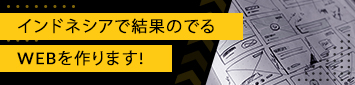
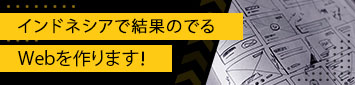
update service page content

diff --git a/css/style.css b/css/style.css
@@ -571,7 +571,7 @@ section.maintop {
 .btn-contact-us-black {
     background: #000;
     border-radius: 5px;
-    color: #fff!important;
+    color: #fff !important;
     font-size: 24px;
     padding: 10px 60px;
     margin-top: 30px
@@ -595,6 +595,23 @@ section.maintop {
 }
 .banner-container{
     margin-top: 15px;
+}
+.casestudy-container{
+    padding-top:30px;
+}
+.casestudy-item {
+    display: block;
+    padding: 10px 0;
+    border: 1px solid #333;
+    font-size: 18px;
+    text-align: center; 
+    color:#ffca13; 
+    text-transform: uppercase;
+    margin-bottom:15px;
+}
+.casestudy-item:hover {
+    background: #333;
+    color: #fff;
 }
 footer {
     z-index:5;

diff --git a/jp/services.php b/jp/services.php
@@ -24,7 +24,7 @@
 	<link href="/fonts/font-awesome/css/font-awesome.min.css" rel="stylesheet">
     
     </head>
-	<body>
+	<body  class="jp-page">
 		<div class="wrapper">
 		
 			<!-- NAVIGATION -->
@@ -118,15 +118,15 @@
 				<div id="contents">
 					<div class="title"><b>Our</b><span class="yellow">Services</span></div>
 					<div class="form-container">
-						LOGIQUEはインドネシア国内でウェブサイト(ホームページ)やウェブシステム、モバイルアプリケーションの開発、SNS活用などお客様がIT・インターネットを活用するためのご支援をしています。WEBやWEBシステムの制作・開発、運用からインターネットマーケティングやSEO対策などまで、Web、インターネットに関するサービスを幅広く提供しております。 プログラマー、デザイナー、コンテンツライターを自社内に抱えており、フレキシブルで安価な価格でのサービス提供が可能です。インドネシアにて長い経験と多くの実績を持っておりますので安心してご依頼ください。
+						LOGIQUEはインドネシア国内でウェブサイト(ホームページ)やウェブシステム、モバイルアプリケーションの開発、デジタルマーケティングの実行など、お客様がIT・インターネットを活用するためのご支援をしています。WebやWebシステムの制作・開発、運用からWebマーケティングやSEO対策などまで、Web、インターネットに関するサービスを幅広く提供しております。 プログラマー、デザイナー、コンテンツライターを自社内に抱えており、フレキシブルで安価な価格でのサービス提供が可能です。インドネシアにて長い経験と多くの実績を持っておりますので安心してご依頼ください。
 					</div>
 					<img class="img-responsive" src="../img/layanan-img.jpg" alt="Layanan"/>
 					<div class="feel-free row-center-sm" style="font-size: 18px;">
 						<div class="col-sm-8">
-							インドネシアでのIT・WEB活用関連について、お気軽にお問い合わせください。御社製品・サービスのインドネシアでの販売パートナー・代理店をお探しの方もお気軽にご連絡ください。
+							インドネシアでのIT・WEB活用等に関する課題についてお気軽にご相談ください
 						</div>
 						<div class="col-sm-4">
-							<a href="contact.php" class="btn btn-contact-service" onclick="ga('send', 'event', 'Button-Hubungi-Logique-Layanan-1', 'Action-Click', 'Button-Hubungi-Logique-Layanan-1-Label');">お問い合わせ</a>
+							<a href="contact.php" class="btn btn-contact-service" onclick="ga('send', 'event', 'Button-Hubungi-Logique-Layanan-1', 'Action-Click', 'Button-Hubungi-Logique-Layanan-1-Label');">ご相談はこちらから</a>
 						</div>
 						<div class="clearfix"></div>
 					</div>
@@ -148,7 +148,7 @@
 							<div class="panel-heading">
 								<a data-toggle="collapse" data-parent="#vacancy" href="#website-creation" class="collapsed">
 									<h2 class="panel-title">
-										<img src="../img/html.png" alt="Website Creation"/> WEB・ホームページ制作運用
+										<img src="../img/html.png" alt="Website Creation"/> Web・ホームページ制作運用
 									</h2>
 								</a>
 							</div>
@@ -156,8 +156,8 @@
 							  <div class="panel-body">
 								<ol class="fa-ul">
 									<li>
-										<i class="fa-li fa fa-caret-right"></i> <b>コーポレートWEB制作</b><br/>
-										会社の信頼感・ブランド価値を伝えるコーポレートWEB、ブランドWEBを制作します。多言語での制作やコンテンツ制作や写真・動画撮影も含めたホームページ制作などご要望に柔軟に応じます。ドメインやWEBサーバーの手配、SSL購入もご支援いたします。企画から運用まで纏めてお任せください。スムーズに進められれば1ヶ月程度で公開可能です。様々な業種のお客様のコーポレートWEBを制作しました。
+										<i class="fa-li fa fa-caret-right"></i> <b>コーポレート・ブランドWeb制作</b><br/>
+										会社の信頼感・ブランド価値を伝えるコーポレートWeb、ブランドWebを制作します。多言語での制作やコンテンツ制作や写真・動画撮影も含めたホームページ制作などご要望に柔軟に応じます。ドメインやWebサーバーの手配、SSL購入もご支援いたします。企画から運用まで纏めてお任せください。スムーズに進められれば1ヶ月程度で公開可能です。コンバージョンのでる、価値の高いWebを作ります。
 										<br/><br/>
 										<div class="row text-center service-portfolio">
 											<div class="col-sm-5 col-sm-offset-1">
@@ -167,8 +167,8 @@
 												</a>
 											</div>
 											<div class="col-sm-5">
-												<a href="http://www.moresco.co.id/" target="_blank">
-												<img src="/img/portfolio/moresco.png" class="img-responsive center-block">
+												<a href="http://sentraya.id/" target="_blank">
+												<img src="/img/portfolio/sentraya.png" class="img-responsive center-block">
 												MORESCO<br>
 												</a>
 											</div>
@@ -180,11 +180,11 @@
 									</li>
 									<li>
 										<i class="fa-li fa fa-caret-right"></i> <b>サービスWEB構築</b><br/>
-										中古車売買マッチングサイト、ポイント管理サイト、人材マッチングサイト、E-Commerce、クローズドコミュニティWEBなど、会員管理CRM WEBなど、インターネットを活用した新ビジネス/新サービスを開始される際、ビジネス企画からデザイン制作、システム・サイト構築、運用までトータルでご支援可能です。適切なPhase分けや柔軟なスコープ調整などでサービスが軌道に乗るのをご支援します。
+										中古車売買マーケットプレイス、ポイント管理サイト、人材マッチングサイト、E-Commerce、クローズドコミュニティ、会員管理CRMウェブなど、インターネットを活用した新ビジネス/新サービスを開始される際、ビジネス企画からデザイン制作、システム・サイト構築、運用、デジタルマーケティングの実行までトータルでご支援可能です。適切なPhase分けや柔軟なスコープ調整などでサービスが軌道に乗るまでご支援します。
 									</li>
 									<li>
 										<i class="fa-li fa fa-caret-right"></i> <b>採用サイト制作</b><br/>
-										ジャカルタにて、ミスマッチングとならない良い人材の採用の難易度は非常に高くなっています。自社で採用サイトをもち、これを活用した採用活動をすることが一つの解決策となります。会社について、人について、求めている人材について、インタビュー動画なども交えて伝えることで効果的な採用が可能となります。求人ページ・サイトと採用管理システムを連動させる案件の実績も豊富にもっています。
+										ジャカルタにて、ミスマッチングとならない良い人材の採用の難易度は非常に高くなっています。自社で採用サイトをもち、これを受け皿としてデジタルを活用した採用活動をすることが一つの解決策となります。会社について、人について、求めている人材について、インタビュー動画なども交えて伝えることで効果的な採用が可能となります。求人ページ・サイトと採用管理システムを連動させる案件の実績も豊富にもっています。
 										<br/>
 										<a target="_blank" href="/jp/services/pembuatan-website-karir-perusahaan/" class="btn btn-service-link">もっと見る</a>
 										<br/><br/>
@@ -196,16 +196,16 @@
 												</a>
 											</div>
 											<div class="col-sm-5">
-												<a href="https://www.dipostar.com/id/tentang-hrd.htm" target="_blank">
-												<img src="/img/portfolio/dsf.png" class="img-responsive center-block">
-												DIPO STAR FINANCE<br><br>
+												<a href="https://career.sinarmasland.com/" target="_blank">
+												<img src="/img/portfolio/sinarmas.jpg" class="img-responsive center-block">
+												SINAR MAS LAND<br><br>
 												</a>
 											</div>
 										</div>
 									</li>
 									<li>
-										<i class="fa-li fa fa-caret-right"></i> <b>モバイルWEB制作・レスポンシブWEB制作</b><br/>
-										スマートフォンやタブレットなどマルチデバイス対応WEBとしてスタンダードになった技術ですが、LOGIQUEでは多くのWEBをレスポンシブWEBとして制作しています。Bootstrapだけでなく他のフレームワークで作られたレスポンシブWEBもメンテ可能です。スマートフォンからの閲覧が多いインドネシアならではの制作をご提案します。
+										<i class="fa-li fa fa-caret-right"></i> <b>モバイルWeb制作・レスポンシブWeb制作</b><br/>
+										スマートフォンやタブレットなどマルチデバイス対応WEBとして既にスタンダードになった技術ですが、LOGIQUEでは原則レスポンシブWebとして制作しています。Bootstrapだけでなく他のフレームワークで作られたレスポンシブWebもメンテナンス可能です。モバイル端末からの閲覧が多いインドネシアならではの制作をご提案します。
 									</li>
 									<li>
 										<i class="fa-li fa fa-caret-right"></i> <b>LP / キャンペーンWEB制作</b><br/>
@@ -223,14 +223,14 @@
 							<div class="panel-heading">
 							  <a data-toggle="collapse" data-parent="#vacancy" href="#web-system" class="collapsed">
 								<h2 class="panel-title">
-									<img src="../img/web-system.png" alt="Website Creation"/>ITシステム開発・運用
+									<img src="../img/web-system.png" alt="Website Creation"/>IT・Webシステム開発・運用
 								</h2>
 							  </a>
 							</div>
 							<div id="web-system" class="panel-collapse collapse">
 							  <div class="panel-body">
 							  	<p>
-							  		最先端の技術を取り入れたハイクオリティなシステム開発を、柔軟にリーズナブルなコストで責任をもって完遂します。PHPフレームワークを使った開発を得意としています。Laravel, Symfony, CakePHPなどでの開発は豊富にあります。またAngularJS, Bootstrapなどと併せて開発することで迅速でメンテナンス性の高いシステム開発をしています。
+							  		最先端の技術でハイクオリティなシステム開発を、柔軟にリーズナブルなコストで責任をもって完遂します。PHPフレームワークを使った開発を得意としています。Laravel, Symfony,  CakePHPなどでの開発は豊富にあります。またReact.js, Node.js, Angularなどでの開発が増えています。メンテナンス性の高いシステム開発アジャイル型で行っています。
 							  	</p>
 							  	<br/>
 								<ol class="fa-ul">
@@ -244,7 +244,7 @@
 									</li>
 									<li>
 										<i class="fa-li fa fa-caret-right"></i> <b>E-Commerce </b><br/>
-										マーケットプレイスやマルチレベルマーケティングに対応したE-Commerceなど複雑なE-Commerceサイトの構築も可能です。 決済や送料計算などインドネシアのルールに則ったシステム構築をします、様々なインドネシアのPayment Gatewayとの連携システムの構築経験も豊富です。 Magento、EC-CUBEなどのフレームワークを利用することもECプラットフォームへの出店支援も可能です。
+										マーケットプレイスやマルチレベルマーケティングに対応したE-Commerceなど複雑なE-Commerceサイトの構築も可能です。 決済や送料計算などインドネシアのルールに則ったシステム構築をします、様々なインドネシアのPayment Gatewayとの連携システムの構築経験も豊富です。 Magentoなどのフレームワークを利用することもスクラッチ開発することも可能です。
 									</li>
 									<li>
 										<i class="fa-li fa fa-caret-right"></i> <b>キャンペーン管理/コンテスト応募管理システム</b><br/>
@@ -255,6 +255,7 @@
 										インドネシアでの採用活動は大変です。質の低いレジュメが大量に送られてきてスクリーニングが大変だったり、インタビューをセットしてもNo showだったりと採用工数は大きくなってしまいがちです。当社が開発販売しているSugoi-Saiyoを使えば、各応募者向けにマイページを提供し、採用担当者はスコアに基づいた自動書類選考やWhatsApp連動のオンラインインタビューができるなど、効率的な採用ができます。
 									</li>
 								</ol>
+								<center><a href="/jp/product/sugoi-saiyo.php" style="display: block"><img src="../img/sugoi-banner.jpg" class="img-responsive" style="width: 100%; height: auto;"></center>
 							  </div>
 							</div>
 						  </div>
@@ -262,7 +263,7 @@
 							<div class="panel-heading">
 							  <a data-toggle="collapse" data-parent="#vacancy" href="#mobile-solution" class="collapsed">
 								<h2 class="panel-title">
-									<img src="../img/mobile-solution.png" alt="Mobile Solution"/> モバイルソリューション
+									<img src="../img/mobile-solution.png" alt="Mobile Solution"/>モバイルソリューション | アプリ開発
 								</h2>
 							  </a>
 							</div>
@@ -270,13 +271,13 @@
 							  <div class="panel-body">
 								<ol class="fa-ul">
 									<li>
-										<i class="fa-li fa fa-caret-right"></i> <b>モバイルWEB制作 </b><br/>
-										インドネシアはモバイルからの閲覧比率が高くモバイル利用ユーザーに適切な対応をすることが重要です。 スマートフォン、タブレットで閲覧されたときにも最適化されたUIで表示するレスポンシブWEBを制作します。PWAやAMPなど新しいテクノロジーが求められる場面では積極的にご提案していきます。
+										<i class="fa-li fa fa-caret-right"></i> <b>モバイルWEB制作</b><br/>
+										インドネシアはモバイルからの閲覧比率が高くモバイル利用ユーザーに適切な対応をすることが重要です。 スマートフォン、タブレットで閲覧されたときにも最適化されたUIで表示するレスポンシブWEBを制作します。AMP制作やモバイルSEOの実績も豊富です。
 									</li>
 									<li>
 										<i class="fa-li fa fa-caret-right"></i> <b>モバイルアプリケーション制作 </b><br/>
-										アンドロイドApp、iOSアプリをインドネシアマーケットに合わせて開発できます。 企画や技術だけでなく、企画をUI、UXに落とし込み、デザイン制作からアプリケーション開発までワンストップで行い、申請登録、運用までしっかりご支援します。<br/>
-										<a target="_blank" href="/jp/services/pembuatan-aplikasi-mobile/" class="btn btn-service-link">もっと見る</a>
+										アンドロイドApp、iOSアプリをインドネシアマーケットに合わせて開発できます。 企画や技術だけでなく、企画をUI、UXに落とし込み、デザイン制作からアプリケーション開発までワンストップで行い、申請登録、運用までしっかりご支援します。PWA開発も豊富にあります。<br/>
+										<a target="_blank" href="/jp/services/pembuatan-aplikasi-mobile/" class="btn btn-service-link">モバイルApp開発についてもっとみる</a>
 									</li>
 								</ol>
 							  </div>
@@ -286,7 +287,7 @@
 							<div class="panel-heading">
 							  <a data-toggle="collapse" data-parent="#vacancy" href="#digital-marketing" class="collapsed">
 								<h2 class="panel-title">
-									<img src="../img/digital-marketing.png" alt="Digital Marketing"/> デジタルマーケティング
+									<img src="../img/digital-marketing.png" alt="Digital Marketing"/> デジタルマーケティング | ITコンサルティング
 								</h2>
 							  </a>
 							</div>
@@ -295,11 +296,11 @@
 								<ol class="fa-ul">
 									<li>
 										<i class="fa-li fa fa-caret-right"></i> <b>SEO対策</b><br/>
-										SEOコンサルティングだけで終わらずWEBページへの施策の実装まで責任をもって行うことで、結果にコミットします。 日本語、インドネシア語、英語でのSEO対策実績豊富にあります。インドネシア語で金融系ビッグキーワードで1位を長く維持した実績あります。
+										SEOコンサルティングだけで終わらずWEBページへの施策の実装まで責任をもって行うことで、結果にコミットします。 日本語、インドネシア語、英語でのSEO対策実績豊富にあります。インドネシア語で金融系ビッグキーワードや車系ビッグキーワードで1位を長く維持した実績あります。
 									</li>
 									<li>
 										<i class="fa-li fa fa-caret-right"></i> <b>インターネットビジネスコンサルティング</b><br/>
-										インターネットを活用した新ビジネスの立ち上げ支援、ビジネス企画、既存ビジネスをネットの力を使って拡大するための戦略策定など、お客様のアドバイザーとなり一緒にビジネスを作っていきます。
+										インターネットを活用した新規事業の立ち上げ支援、ビジネス企画、既存ビジネスをネットの力を使って拡大するための戦略策定など、お客様のアドバイザーとなり一緒にビジネスを作っていきます。
 									</li>
 									<li>
 										<i class="fa-li fa fa-caret-right"></i> <b>コンテンツ制作</b><br/>
@@ -307,7 +308,8 @@
 									</li>
 									<li>
 										<i class="fa-li fa fa-caret-right"></i> <b>インターネット広告 / デジタルマーケティング支援</b><br/>
-										インターネット広告、ネット上でのPR施策、SNSを活用したマーケティングなど、ネットを活用した集客やコンバージョン増のための施策、OtoOなどご相談ください。 パートナーと協業して効果の高いソリューションをご提供します。
+										インターネット広告、オンラインPR施策、SNSを活用したマーケティングなど、ネットを活用した集客やコンバージョン増のための施策、OtoOなどご相談ください。 パートナーと協業して効果の高いソリューションをご提供します。<br>
+										<a target="_blank" href="#" class="btn btn-service-link">LOGIQUEのデジタルマーケティング サービスについて詳しくみる</a>
 									</li>
 								</ol>
 							  </div>
@@ -317,7 +319,7 @@
 							<div class="panel-heading">
 							  <a data-toggle="collapse" data-parent="#vacancy" href="#others" class="collapsed">
 								<h2 class="panel-title">
-									<img src="../img/others.png" alt="Digital Marketing"/> Others
+									<img src="../img/others.png" alt="Digital Marketing"/> その他のサービス
 								</h2>
 							  </a>
 							</div>
@@ -326,27 +328,29 @@
 								<ol class="fa-ul">
 									<li>
 										<i class="fa-li fa fa-caret-right"></i> <b>会社案内 / カタログ / リーフレット デザイン制作＆印刷</b><br/>
-										商談時に使用する紙ものから、バッグやTシャツなど各種販促物までデザイン制作します。 またパートナー印刷事業者をコントロールして印刷物の納品まで責任をもって行います。 会社案内、各種チラシ、展示会配布物、その他販促物など、まずはご相談ください。
+										商談時に使用する紙ものから、バッグやTシャツなど各種販促物までデザイン制作します。 またパートナー印刷事業者をコントロールして印刷物の納品まで行うことも可能です。 会社案内、各種チラシ、展示会配布物、その他販促物など、まずはご相談ください。
 									</li>
 									<li>
 										<i class="fa-li fa fa-caret-right"></i> <b>WEBサーバー、ドメイン取得代行</b><br/>
-										インドネシアのコーポレートドメイン.co.idの取得管理、DNSの設定などを当社にて代行いたします。SSLの購入設定やWEBサーバーのレンタルも可能です。GlobalSign SSLの購入やWEBサーバーのレンタルも可能です。AWSの請求代行も可能です。
+										インドネシアのコーポレートドメイン.co.idの取得管理、DNSの設定などを当社にて代行いたします。SSLの購入＆設定やWEBサーバーのレンタルも可能です。GlobalSign SSLの購入やWEBサーバーのレンタルも可能です。AWSの請求代行も可能です。
 									</li>
 									<li>
 										<i class="fa-li fa fa-caret-right"></i> <b>ITビジネスコンサルティング</b><br/>
-										ITの導入による業務改善コンサルティング、ITツール選定アドバイザリー、ITセキュリティ診断、やインターネットビジネスの新規事業立ち上げ支援など“インドネシア×IT”領域で様々なコンサルティングやアドバイザリーサービスを行っています。
+										ITの導入による業務改善コンサルティング、ITツール選定アドバイザリー、ITセキュリティ診断、インターネットビジネスの新規事業立ち上げ支援など ”インドネシア × IT” 領域で様々なコンサルティングやアドバイザリーサービスを行っています。
 									</li>
 									<li>
-										<i class="fa-li fa fa-caret-right"></i> <b>WEBセキュリティ診断（脆弱性診断・検査）</b><br/>
-										Webアプリケーションの脆弱性を診断・レポートします。SQLインジェクション、クロスサイトスクリプティング、セッションハイジャックなどの攻撃による被害の発生を未然に防ぐことができます。診断ツール、経験豊富な担当者による診断の両方を併用して診断します。診断項目などによりますが10,000,000 IDRから診断可能です。
-										<br><a target="_blank" href="/jp/services/penetration-testing/" class="btn btn-service-link">もっと見る</a>
+										<i class="fa-li fa fa-caret-right"></i> <b>Webセキュリティ診断（脆弱性診断・検査）</b><br/>
+										Webサイトやアプリケーションの脆弱性を診断・レポートします。SQLインジェクション、クロスサイトスクリプティング、セッションハイジャックなどの攻撃による被害の発生を未然に防ぐことができます。診断ツール、経験豊富な担当者による診断の両方を併用して診断します。診断項目などによりますが15,000,000 IDRから診断可能です。 
+										<br><a target="_blank" href="/jp/services/penetration-testing/" class="btn btn-service-link">Webセキュリティ診断について詳しくみる</a>
 									</li>
 								</ol>
 							  </div>
 							</div>
 						  </div>
 						</div>
+ 
 					</div>
+					
 					<!--<div class="no-gap">
 						<div class="col-sm-4 col-xs-6">
 							<div class="text-center services-list tooltip-service">
@@ -432,7 +436,7 @@
 					</div>-->
 					<div class="clearfix"></div>
 					<div class="workflow-container">
-						<div class="title-workflow">開発の流れ</div>
+						<div class="title-workflow">制作・開発の流れ</div>
 						<div class="row">
 							<div class="col-md-5ths">
 								<div class="div-for-workflow">
@@ -590,7 +594,7 @@
 						<div class="row testimony-client">
 							<div class="col-md-12" style="padding-bottom: 8px">
 								<br/>
-								<div class="title-workflow" style="margin-bottom:0">クライアントの証言</div>
+								<div class="title-workflow" style="margin-bottom:0">クライアントからのコメント</div>
 								<div id="myCarousel" class="carousel slide carousel-pesan-career">
 								  <ol class="carousel-indicators">
 									<li data-target="#myCarousel" data-slide-to="0" class="active"></li>
@@ -633,6 +637,31 @@
 									<span class="sr-only">Next</span>
 								  </a>
 								</div>
+							</div>
+						</div>
+					</div>
+					<div class="form-container">
+						<div class="title-workflow" style="margin-bottom:0; padding-top: 30px;">Case Study</div>
+						<div class="casestudy-container">
+							<div class="row">
+								<div class="col-sm-4">
+									<a href="../case-study/opuspark/" class="casestudy-item" target="_blank">opus park</a>
+								</div>
+								<div class="col-sm-4">
+									<a href="../case-study/jba-auction-system/" class="casestudy-item"  target="_blank">JBA </a>
+								</div>
+								<div class="col-sm-4">
+									<a href="../case-study/vip-plaza-progressive-web-app/" class="casestudy-item"  target="_blank">VIP Plaza</a>
+								</div>
+							</div>
+							<div class="row">
+								<div class="col-sm-4 col-md-offset-2">
+									<a href="../case-study/zuttoride-customer-management-system/" class="casestudy-item"  target="_blank">Zuttoride</a>
+								</div>
+								<div class="col-sm-4">
+									<a href="../case-study/caroline-bidding-system/" class="casestudy-item"  target="_blank">Caroline </a>
+								</div>
+
 							</div>
 						</div>
 					</div>
